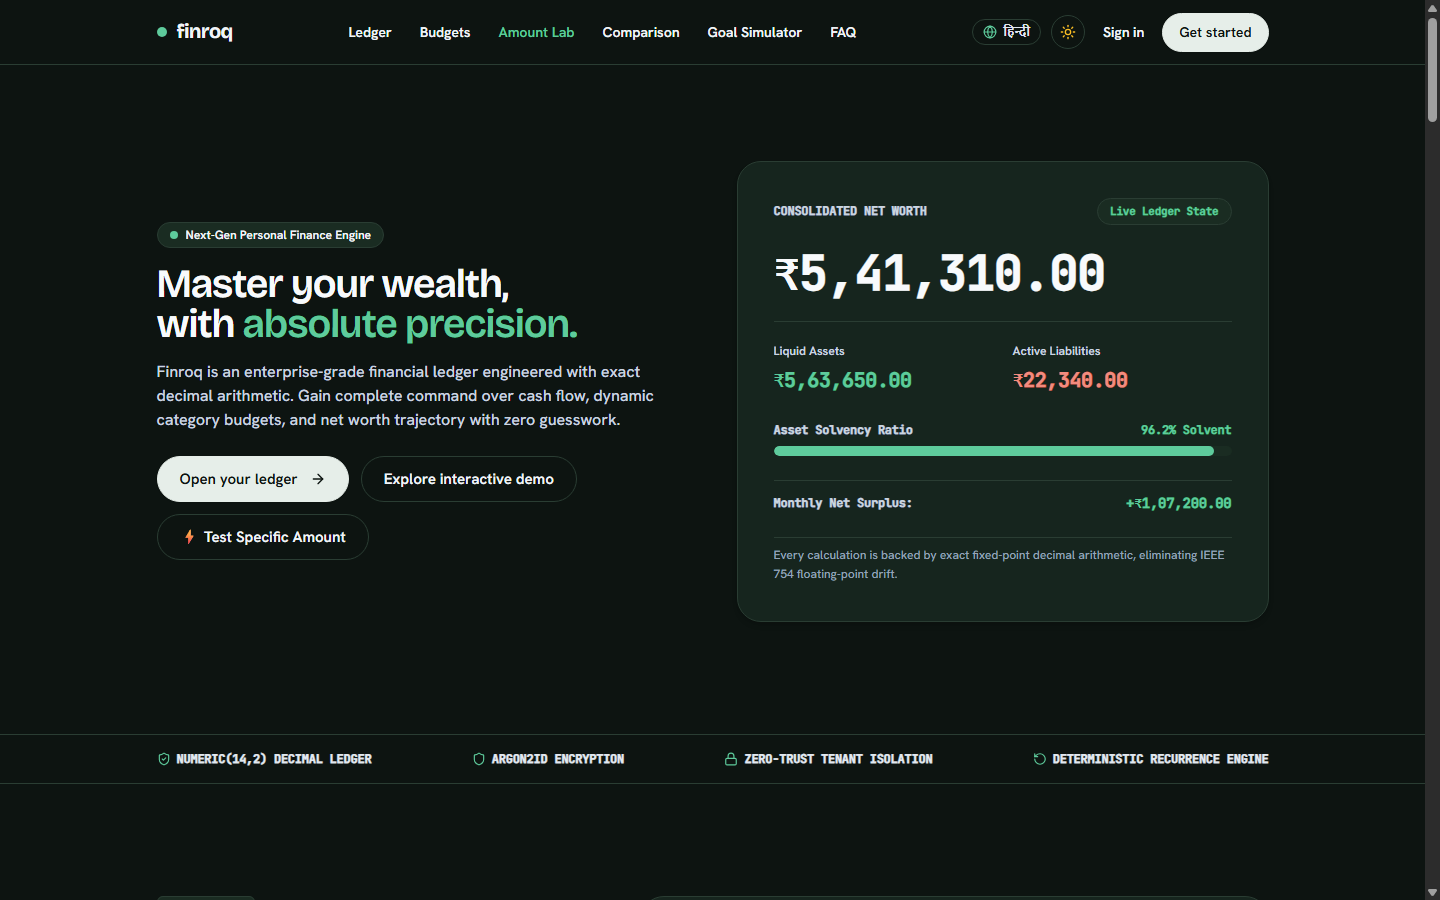
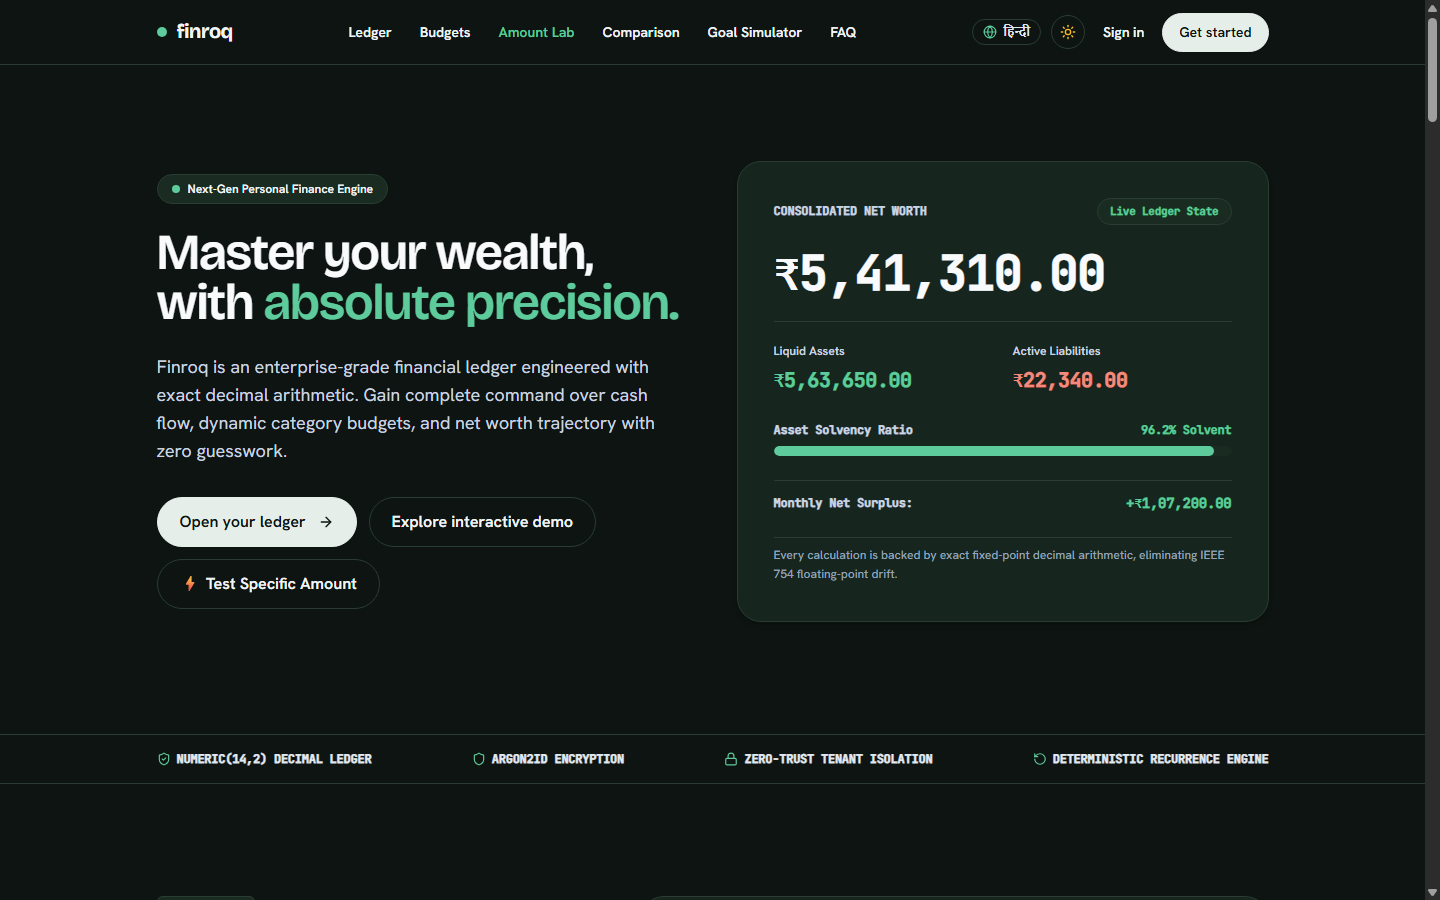
FEAT(LANDING): CALIBRATE HERO TYPOGRAPHY AND PARAGRAPH SCALE TO ELIMINATE EMPTY NEGATIVE SPACE

Changed region(s): [[0.0938, 0.4044, 0.4688, 0.6533], [0.0938, 0.2489, 0.4688, 0.3733], [0.125, 0.1867, 0.25, 0.2178]]

diff --git a/frontend/src/components/landing/LandingShowcase.tsx b/frontend/src/components/landing/LandingShowcase.tsx
@@ -342,13 +342,13 @@ export function LandingShowcase({ onEnterApp }: { onEnterApp?: () => void }) {
       <section className="pt-16 pb-20 md:pt-24 md:pb-28 border-b border-[var(--line)]">
         <div className="max-w-6xl mx-auto px-5 grid md:grid-cols-12 gap-10 lg:gap-12 items-center">
           {/* Left Column: Clean, balanced typography with refined scale */}
-          <div className="md:col-span-6 space-y-4">
-            <div className="inline-flex items-center gap-2 px-3 py-1 rounded-full bg-[var(--soft)] border border-[var(--line)] text-xs font-bold text-[#173F2B] dark:text-slate-100">
+          <div className="md:col-span-6 space-y-6">
+            <div className="inline-flex items-center gap-2 px-3.5 py-1.5 rounded-full bg-[var(--soft)] border border-[var(--line)] text-xs font-bold text-[#173F2B] dark:text-slate-100">
               <span className="w-2 h-2 rounded-full bg-[var(--accent)]" />
               <span>{t('hero.badge', 'Next-Gen Personal Finance Engine')}</span>
             </div>
 
-            <h1 className="font-display text-2xl sm:text-3xl md:text-4xl lg:text-[2.5rem] font-bold tracking-tight leading-[1.18] text-[#173F2B] dark:text-slate-50">
+            <h1 className="font-display text-3xl sm:text-4xl md:text-5xl lg:text-[2.9rem] xl:text-[3.15rem] font-bold tracking-tight leading-[1.14] text-[#173F2B] dark:text-slate-50">
               {language === 'hi' ? (
                 <>
                   अपनी संपत्ति पर पाएं पूर्ण नियंत्रण,<br />
@@ -362,7 +362,7 @@ export function LandingShowcase({ onEnterApp }: { onEnterApp?: () => void }) {
               )}
             </h1>
 
-            <p className="text-sm sm:text-base text-[#2E4035] dark:text-slate-300 max-w-lg leading-relaxed font-medium">
+            <p className="text-base sm:text-lg md:text-[1.125rem] text-[#2E4035] dark:text-slate-300 max-w-xl leading-relaxed font-normal">
               {language === 'hi'
                 ? 'फिनरॉक (Finroq) एक उद्यम-स्तरीय वित्तीय लेजर है जो निश्चित दशमलव अंकगणित के साथ तैयार किया गया है। अपने कैश फ्लो, बजट और कुल संपत्ति पर पूरा नियंत्रण पाएं बिना किसी अनुमान के।'
                 : 'Finroq is an enterprise-grade financial ledger engineered with exact decimal arithmetic. Gain complete command over cash flow, dynamic category budgets, and net worth trajectory with zero guesswork.'}
@@ -371,19 +371,19 @@ export function LandingShowcase({ onEnterApp }: { onEnterApp?: () => void }) {
             <div className="pt-2 flex flex-wrap gap-3">
               <button
                 onClick={() => navigateWithCurtain('/register', 'welcome', 'fwd')}
-                className="btn-pill bg-[#173F2B] text-white hover:bg-[#102F21] shadow-sm font-bold text-sm"
+                className="btn-pill bg-[#173F2B] text-white hover:bg-[#102F21] shadow-sm font-bold text-sm sm:text-base"
               >
                 {t('hero.open_ledger', 'Open your ledger')} <ArrowRight className="w-4 h-4 ml-1" />
               </button>
               <a
                 href="#ledger"
-                className="btn-pill ghost hover:border-[var(--ink)] font-bold text-sm text-[#173F2B] dark:text-slate-100"
+                className="btn-pill ghost hover:border-[var(--ink)] font-bold text-sm sm:text-base text-[#173F2B] dark:text-slate-100"
               >
                 {t('hero.explore_demo', 'Explore interactive demo')}
               </a>
               <a
                 href="#amount-sandbox"
-                className="btn-pill ghost hover:border-[var(--accent)] font-bold text-sm text-[#173F2B] dark:text-slate-100 flex items-center gap-1.5"
+                className="btn-pill ghost hover:border-[var(--accent)] font-bold text-sm sm:text-base text-[#173F2B] dark:text-slate-100 flex items-center gap-1.5"
               >
                 <span>{language === 'hi' ? '⚡ विशिष्ट राशि जोड़ें' : '⚡ Test Specific Amount'}</span>
               </a>
